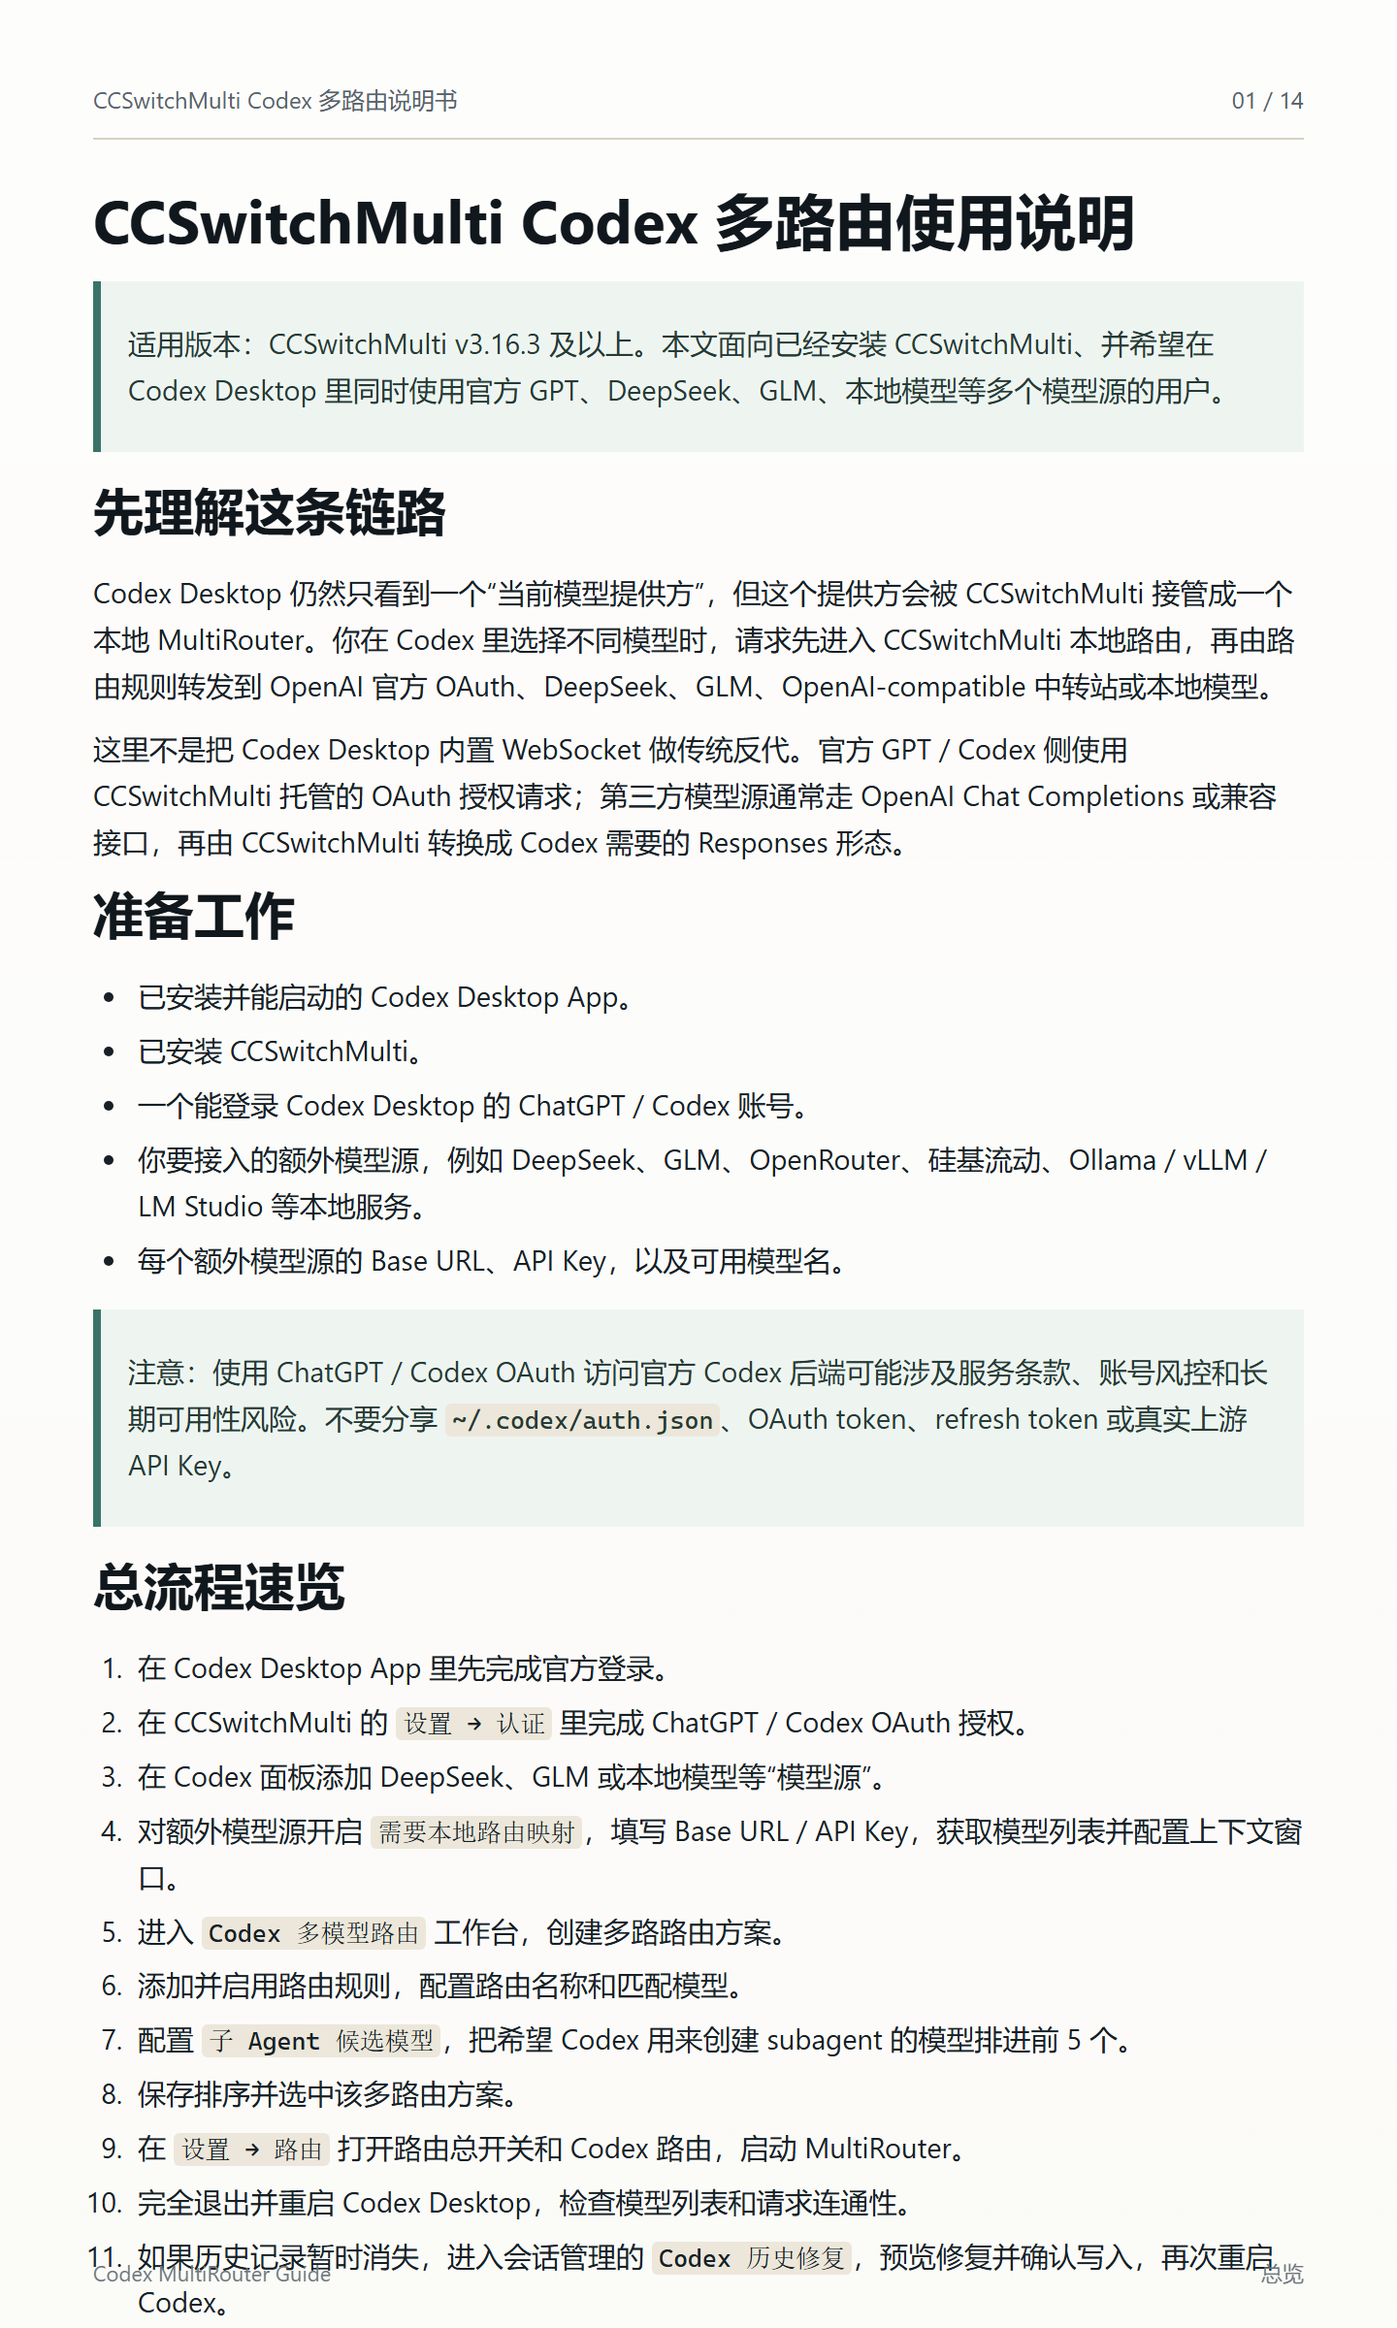
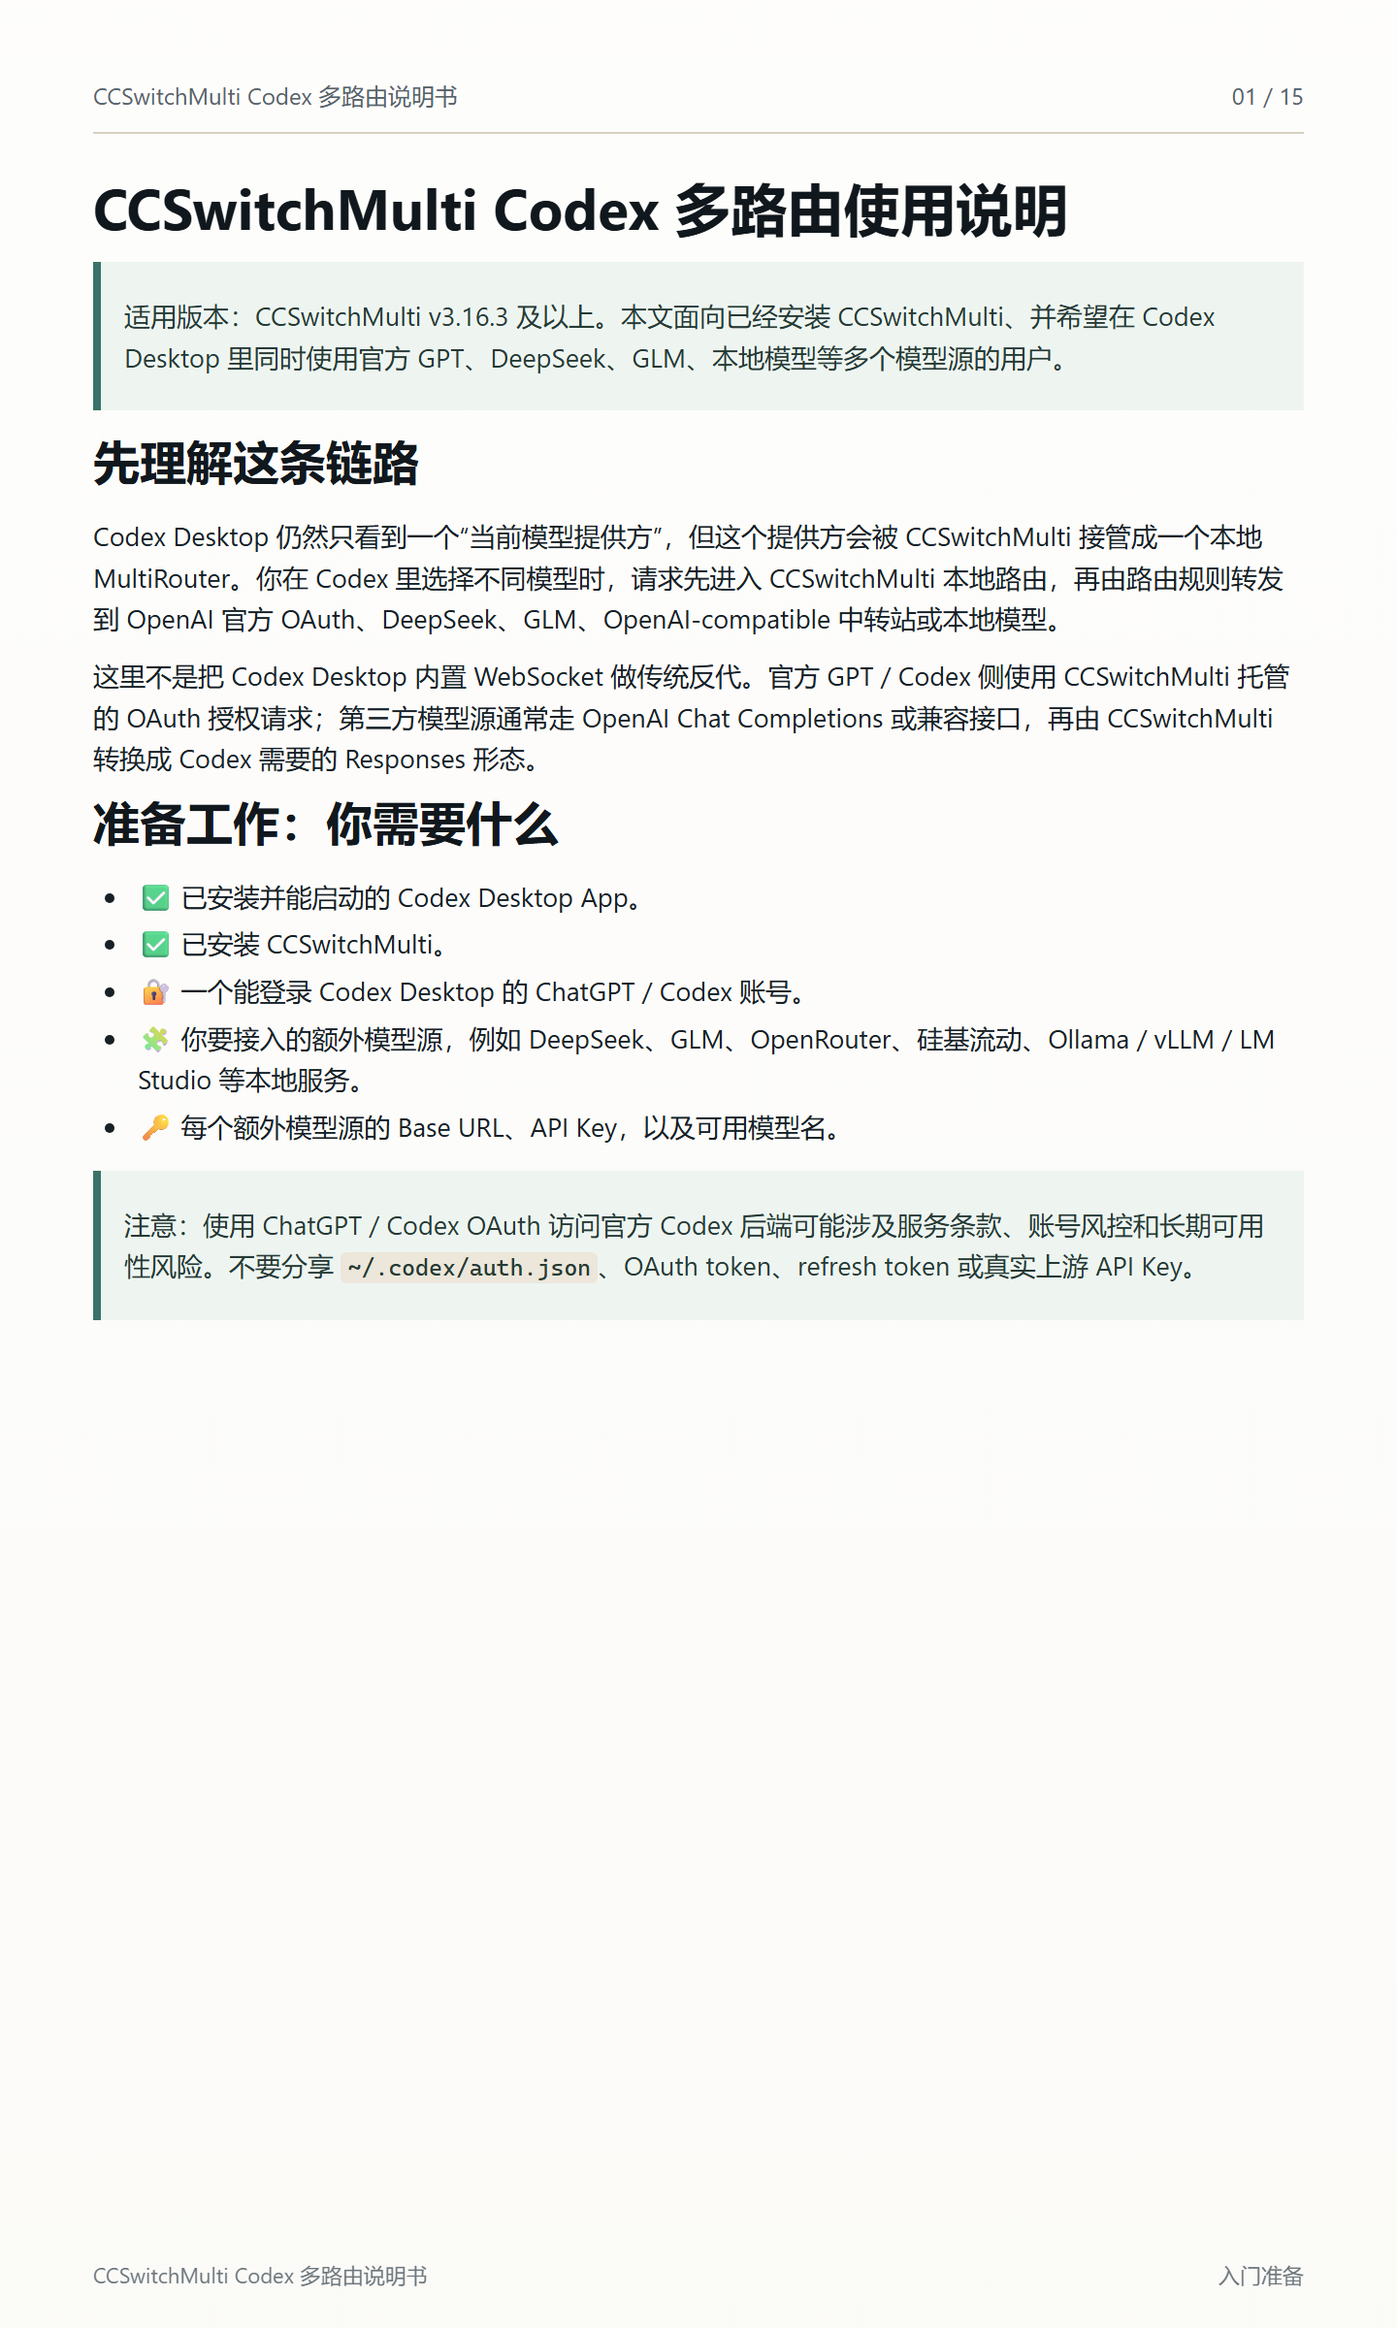
docs(codex): refine MultiRouter paged guide rendering
Add explicit guide-page markers and a separate flow page so the Chinese MultiRouter guide renders into stable page images and PDF output.

Keep the reusable markdown-paged-guide helper skill in the repository for future guide regeneration. Build/upload scratch logs remain untracked.

diff --git a/skills/markdown-paged-guide/scripts/pngs_to_pdf.py b/skills/markdown-paged-guide/scripts/pngs_to_pdf.py
@@ -1,0 +1,48 @@
+#!/usr/bin/env python
+"""Convert a folder of rendered PNG guide pages into a single PDF."""
+from __future__ import annotations
+
+import argparse
+from pathlib import Path
+
+from PIL import Image, JpegImagePlugin  # noqa: F401
+from pypdf import PdfReader
+
+
+def parse_args() -> argparse.Namespace:
+    parser = argparse.ArgumentParser(description="Convert rendered guide PNG pages to PDF.")
+    parser.add_argument("--pages-dir", required=True, help="Directory containing ordered PNG pages.")
+    parser.add_argument("--output", required=True, help="Output PDF path.")
+    parser.add_argument("--resolution", type=float, default=144.0, help="PDF image resolution.")
+    return parser.parse_args()
+
+
+def main() -> None:
+    args = parse_args()
+    pages_dir = Path(args.pages_dir)
+    output = Path(args.output)
+    page_files = sorted(pages_dir.glob("*.png"))
+    if not page_files:
+        raise SystemExit(f"No PNG pages found in {pages_dir}")
+
+    output.parent.mkdir(parents=True, exist_ok=True)
+    images = [Image.open(page).convert("RGB") for page in page_files]
+    try:
+        images[0].save(output, save_all=True, append_images=images[1:], resolution=args.resolution)
+    finally:
+        for image in images:
+            image.close()
+
+    reader = PdfReader(str(output))
+    if len(reader.pages) != len(page_files):
+        raise SystemExit(f"PDF page count mismatch: {len(reader.pages)} != {len(page_files)}")
+
+    with Image.open(page_files[0]) as first:
+        print(f"Wrote {output.resolve()}")
+        print(f"pages={len(page_files)}")
+        print(f"first_page_size={first.size[0]}x{first.size[1]}")
+        print(f"bytes={output.stat().st_size}")
+
+
+if __name__ == "__main__":
+    main()

diff --git a/docs/guides/codex-multirouter-guide-zh.md b/docs/guides/codex-multirouter-guide-zh.md
@@ -1,3 +1,5 @@
+<!-- guide-page: 00-overview.png | 入门准备 -->
+
 # CCSwitchMulti Codex 多路由使用说明
 
 > 适用版本：CCSwitchMulti v3.16.3 及以上。本文面向已经安装 CCSwitchMulti、并希望在 Codex Desktop 里同时使用官方 GPT、DeepSeek、GLM、本地模型等多个模型源的用户。
@@ -8,35 +10,43 @@ Codex Desktop 仍然只看到一个“当前模型提供方”，但这个提供
 
 这里不是把 Codex Desktop 内置 WebSocket 做传统反代。官方 GPT / Codex 侧使用 CCSwitchMulti 托管的 OAuth 授权请求；第三方模型源通常走 OpenAI Chat Completions 或兼容接口，再由 CCSwitchMulti 转换成 Codex 需要的 Responses 形态。
 
-## 准备工作
+## 准备工作：你需要什么
 
-- 已安装并能启动的 Codex Desktop App。
-- 已安装 CCSwitchMulti。
-- 一个能登录 Codex Desktop 的 ChatGPT / Codex 账号。
-- 你要接入的额外模型源，例如 DeepSeek、GLM、OpenRouter、硅基流动、Ollama / vLLM / LM Studio 等本地服务。
-- 每个额外模型源的 Base URL、API Key，以及可用模型名。
+- ✅ 已安装并能启动的 Codex Desktop App。
+- ✅ 已安装 CCSwitchMulti。
+- 🔐 一个能登录 Codex Desktop 的 ChatGPT / Codex 账号。
+- 🧩 你要接入的额外模型源，例如 DeepSeek、GLM、OpenRouter、硅基流动、Ollama / vLLM / LM Studio 等本地服务。
+- 🔑 每个额外模型源的 Base URL、API Key，以及可用模型名。
 
 > 注意：使用 ChatGPT / Codex OAuth 访问官方 Codex 后端可能涉及服务条款、账号风控和长期可用性风险。不要分享 `~/.codex/auth.json`、OAuth token、refresh token 或真实上游 API Key。
 
+<!-- guide-page: 01-flow.png | 总流程速览 -->
+
 ## 总流程速览
 
-1. 在 Codex Desktop App 里先完成官方登录。
-2. 在 CCSwitchMulti 的 `设置 → 认证` 里完成 ChatGPT / Codex OAuth 授权。
-3. 在 Codex 面板添加 DeepSeek、GLM 或本地模型等“模型源”。
-4. 对额外模型源开启 `需要本地路由映射`，填写 Base URL / API Key，获取模型列表并配置上下文窗口。
-5. 进入 `Codex 多模型路由` 工作台，创建多路路由方案。
-6. 添加并启用路由规则，配置路由名称和匹配模型。
-7. 配置 `子 Agent 候选模型`，把希望 Codex 用来创建 subagent 的模型排进前 5 个。
-8. 保存排序并选中该多路由方案。
-9. 在 `设置 → 路由` 打开路由总开关和 Codex 路由，启动 MultiRouter。
-10. 完全退出并重启 Codex Desktop，检查模型列表和请求连通性。
-11. 如果历史记录暂时消失，进入会话管理的 `Codex 历史修复`，预览修复并确认写入，再次重启 Codex。
+1. 🔐 在 Codex Desktop App 里先完成官方登录。
+2. 🔗 在 CCSwitchMulti 的 `设置 → 认证` 里完成 ChatGPT / Codex OAuth 授权。
+3. ➕ 在 Codex 面板添加 DeepSeek、GLM 或本地模型等“模型源”。
+4. 🧭 对额外模型源开启 `需要本地路由映射`，填写 Base URL / API Key，获取模型列表并配置上下文窗口。
+5. 🧱 进入 `Codex 多模型路由` 工作台，创建多路路由方案。
+6. 🚦 添加并启用路由规则，配置路由名称和匹配模型。
+7. 🤖 配置 `子 Agent 候选模型`，把希望 Codex 用来创建 subagent 的模型排进前 5 个。
+8. 💾 保存排序并选中该多路由方案。
+9. ▶ 在 `设置 → 路由` 打开路由总开关和 Codex 路由，启动 MultiRouter。
+10. 🔄 完全退出并重启 Codex Desktop，检查模型列表和请求连通性。
+11. 🕘 如果历史记录暂时消失，进入会话管理的 `Codex 历史修复`，预览修复并确认写入，再次重启 Codex。
+
+完成后，你应该同时验证两件事：Codex 模型列表能看到 MultiRouter 汇总的候选模型；Codex 识别到的子 Agent 候选模型顺序和 CCSwitchMulti 里保存的前 5 个一致。
+
+<!-- guide-page: 02-step-1.png | 1. 先登录 Codex Desktop -->
 
 ## 1. 先登录 Codex Desktop
 
 先启动 Codex Desktop App，用你的 ChatGPT / Codex 账号完成官方登录。这个步骤的目的不是让所有请求都走官方模型，而是让 Codex Desktop 和 CCSwitchMulti 都有一个健康的官方 OAuth 登录基础。
 
 登录完成后，Codex 会把官方登录材料保存到本机 `~/.codex/auth.json`。后续不要手动复制、编辑或分享这个文件。
+
+<!-- guide-page: 03-step-2.png | 2. 在 CCSwitchMulti 里完成 OAuth 授权 -->
 
 ## 2. 在 CCSwitchMulti 里完成 OAuth 授权
 
@@ -51,6 +61,8 @@ Codex Desktop 仍然只看到一个“当前模型提供方”，但这个提供
 ![设置认证页中的 ChatGPT / Codex OAuth 授权入口](../images/codex-multirouter/01-settings-auth-oauth.png)
 
 如果授权状态显示未认证、会话过期或无法刷新，请先在这里重新登录，再继续配置多路由。
+
+<!-- guide-page: 04-step-3.png | 3. 添加额外模型源 -->
 
 ## 3. 添加额外模型源
 
@@ -70,6 +82,8 @@ Codex Desktop 仍然只看到一个“当前模型提供方”，但这个提供
 - 默认模型或模型映射
 
 ![供应商配置页中填写 API 请求地址、Key 并开启本地路由映射](../images/codex-multirouter/03-configure-provider-local-routing.png)
+
+<!-- guide-page: 05-step-4.png | 4. 开启本地路由映射并获取模型列表 -->
 
 ## 4. 开启本地路由映射并获取模型列表
 
@@ -93,6 +107,8 @@ Codex Desktop 仍然只看到一个“当前模型提供方”，但这个提供
 
 如果 `获取模型列表` 失败，先检查 Base URL、API Key、网络和该服务是否真的暴露 `/models` 或兼容模型列表接口。模型列表失败不会自动证明模型不可用，但会影响 MultiRouter 候选模型和子 Agent 候选排序。
 
+<!-- guide-page: 06-step-5.png | 5. 创建 Codex 多模型路由 -->
+
 ## 5. 创建 Codex 多模型路由
 
 在 CCSwitchMulti 右上角找到路径 / 路由形状的入口，打开：
@@ -113,6 +129,8 @@ Codex 多模型路由
 
 ![MultiRouter 工作台中的创建多路路由按钮](../images/codex-multirouter/06-create-multirouter.png)
 
+<!-- guide-page: 07-step-6.png | 6. 添加并启用路由规则 -->
+
 ## 6. 添加并启用路由规则
 
 在工作台进入 `路由规则` 页，点击 `编辑匹配规则` 或添加规则。选择你希望加入这套 MultiRouter 的模型源，并确认它们处于启用状态。
@@ -131,6 +149,8 @@ Codex 多模型路由
 
 ![路由规则配置完成后保存方案](../images/codex-multirouter/08-save-route-rules.png)
 
+<!-- guide-page: 08-step-7.png | 7. 配置子 Agent 候选模型 -->
+
 ## 7. 配置子 Agent 候选模型
 
 在 `路由规则` 页下方找到 `子 Agent 候选模型`。这里控制 Codex 创建 subagent 时能看到哪些模型。
@@ -148,6 +168,8 @@ Codex 多模型路由
 ![子 Agent 候选模型排序和保存排序](../images/codex-multirouter/09-subagent-model-order.png)
 
 保存后，MultiRouter 会把这个顺序写入模型目录。Codex Desktop 仍然需要重启后才会刷新模型候选。
+
+<!-- guide-page: 09-step-8.png | 8. 选中 MultiRouter 并启动路由 -->
 
 ## 8. 选中 MultiRouter 并启动路由
 
@@ -174,6 +196,8 @@ Codex 多模型路由
 
 不要把这个端口和对外 OpenAI-compatible API 端口混淆。Codex Desktop takeover 使用的是本地 Codex 路由端口；外部 agent API 可能使用另一个端口。
 
+<!-- guide-page: 10-step-9.png | 9. 使用状态 / Debug 检查链路 -->
+
 ## 9. 使用状态 / Debug 检查链路
 
 启动后，回到 `Codex 多模型路由` 工作台，进入 `状态` 页，运行 Debug 检查。
@@ -190,6 +214,8 @@ Codex 多模型路由
 - 最近日志里是否出现 `route_resolved`、`request_prepared`、`upstream_send`、`upstream_status`。
 
 如果 Debug 里显示端口可达但没有近期路由事件，请先在 Codex Desktop 里发送一条测试消息，再回来看日志。没有日志通常说明 Codex 还没有真正走到 MultiRouter，而不是第三方上游一定坏了。
+
+<!-- guide-page: 11-step-10.png | 10. 完全退出并重启 Codex Desktop -->
 
 ## 10. 完全退出并重启 Codex Desktop
 
@@ -217,6 +243,8 @@ Codex 多模型路由
 
 如果模型候选仍然只有少数 OpenAI 模型，优先确认所有 Codex Desktop / app-server 进程已经完全退出；必要时从 CCSwitchMulti 重新启动或解锁 Codex Desktop，再检查模型列表。
 
+<!-- guide-page: 12-step-11.png | 11. 修复 Codex 历史记录显示 -->
+
 ## 11. 修复 Codex 历史记录显示
 
 切到 MultiRouter 后，Codex 历史记录可能看起来被清空。这通常不是对话文件丢失，而是历史记录的 provider bucket 从官方或旧路由桶切到了新的 MultiRouter 桶。
@@ -242,6 +270,8 @@ Codex 多模型路由
 
 更多历史机制和数据安全说明可参考 [统一 Codex 会话历史：功能介绍与使用攻略](./codex-unified-session-history-guide-zh.md)。
 
+<!-- guide-page: 13-faq.png | 常见问题 -->
+
 ## 常见问题
 
 ### 为什么额外模型源建议开启“需要本地路由映射”？
@@ -263,6 +293,8 @@ Codex 创建 subagent 时只取前 5 个候选模型。`子 Agent 候选模型` 
 ### 如何判断请求真的走到了 MultiRouter？
 
 不要只看 Codex 左下角账号或模型显示。以 CCSwitchMulti 状态页、Debug 结果和 `codex-router.log` 为准。出现 `route_resolved` 和对应上游状态，才说明请求进入了 MultiRouter。
+
+<!-- guide-page: 14-related-docs.png | 相关文档 -->
 
 ## 相关文档
 

diff --git a/skills/markdown-paged-guide/SKILL.md b/skills/markdown-paged-guide/SKILL.md
@@ -1,0 +1,63 @@
+---
+name: markdown-paged-guide
+description: Render Markdown manuals into polished per-page PNG images and PDF deliverables. Use when Codex needs to create or update screenshot-heavy Chinese/English user guides, split long Markdown into fixed-size pages, control image scaling, or export a rendered guide folder plus PDF for product documentation.
+---
+
+# Markdown Paged Guide
+
+Use this skill to turn a Markdown manual into fixed-size rendered pages and a PDF.
+
+## Workflow
+
+1. Add explicit page markers to the Markdown when page balance matters:
+
+```markdown
+<!-- guide-page: 00-overview.png | Overview -->
+
+# Product Guide
+
+...
+
+<!-- guide-page: 01-setup.png | Setup -->
+
+## Setup
+```
+
+2. Put screenshots in stable repository paths and reference them with normal Markdown image syntax.
+3. Render PNG pages with `scripts/render_paged_guide.cjs`.
+4. Export the PNG folder to PDF with `scripts/pngs_to_pdf.py`.
+5. Inspect the most crowded pages visually before delivery.
+
+## Rendering
+
+Run from the repository root:
+
+```powershell
+$env:NODE_PATH='C:\Users\sunda\.cache\codex-runtimes\codex-primary-runtime\dependencies\node\node_modules'
+& 'C:\Users\sunda\.cache\codex-runtimes\codex-primary-runtime\dependencies\node\bin\node.exe' `
+  skills\markdown-paged-guide\scripts\render_paged_guide.cjs `
+  --input docs\guides\example.md `
+  --out-dir docs\images\example-guide\pages `
+  --width 1440 `
+  --height 2400 `
+  --max-image-height 560
+```
+
+The renderer uses Microsoft Edge headless. It removes old PNG/HTML/manifest files in the output directory, writes one PNG per `guide-page` marker, and writes `manifest.json`.
+
+## PDF Export
+
+```powershell
+& 'C:\Users\sunda\.cache\codex-runtimes\codex-primary-runtime\dependencies\python\python.exe' `
+  skills\markdown-paged-guide\scripts\pngs_to_pdf.py `
+  --pages-dir docs\images\example-guide\pages `
+  --output output\pdf\example-guide.pdf
+```
+
+## Page Layout Rules
+
+- Keep the first page for positioning, prerequisites, and safety notes.
+- Move long checklists or process overviews to a second page when page one is crowded.
+- If several pages contain two screenshots, reduce `--max-image-height` globally instead of special-casing one page.
+- Use emoji sparingly for scan markers such as prerequisites, warnings, checks, and completion gates.
+- Re-render PNG and PDF after every Markdown or screenshot change.
